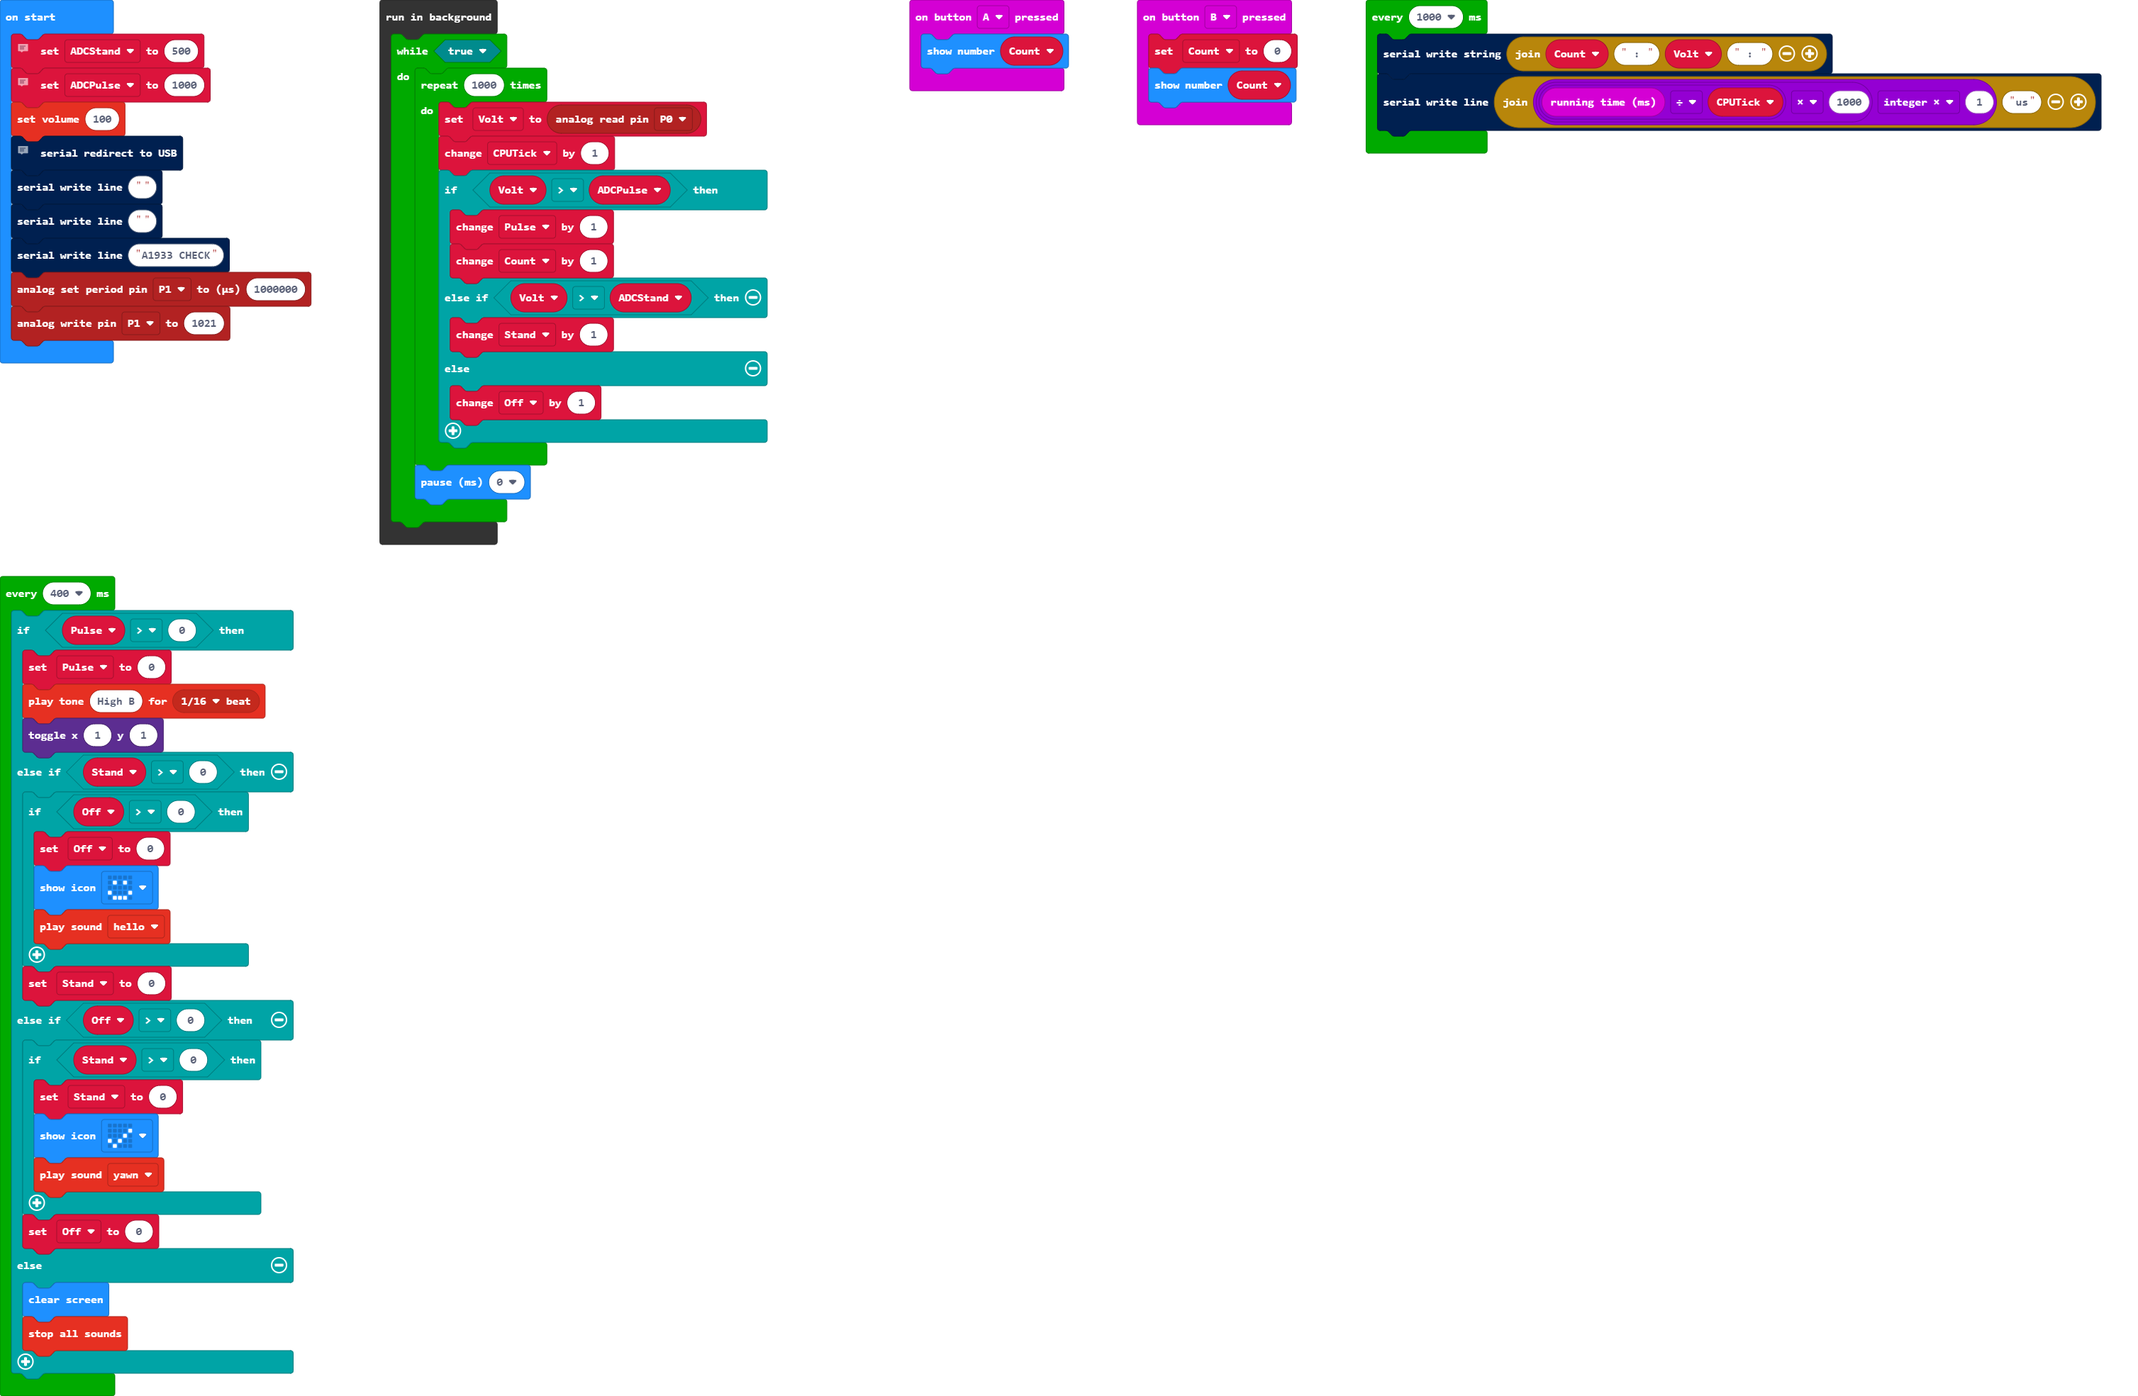
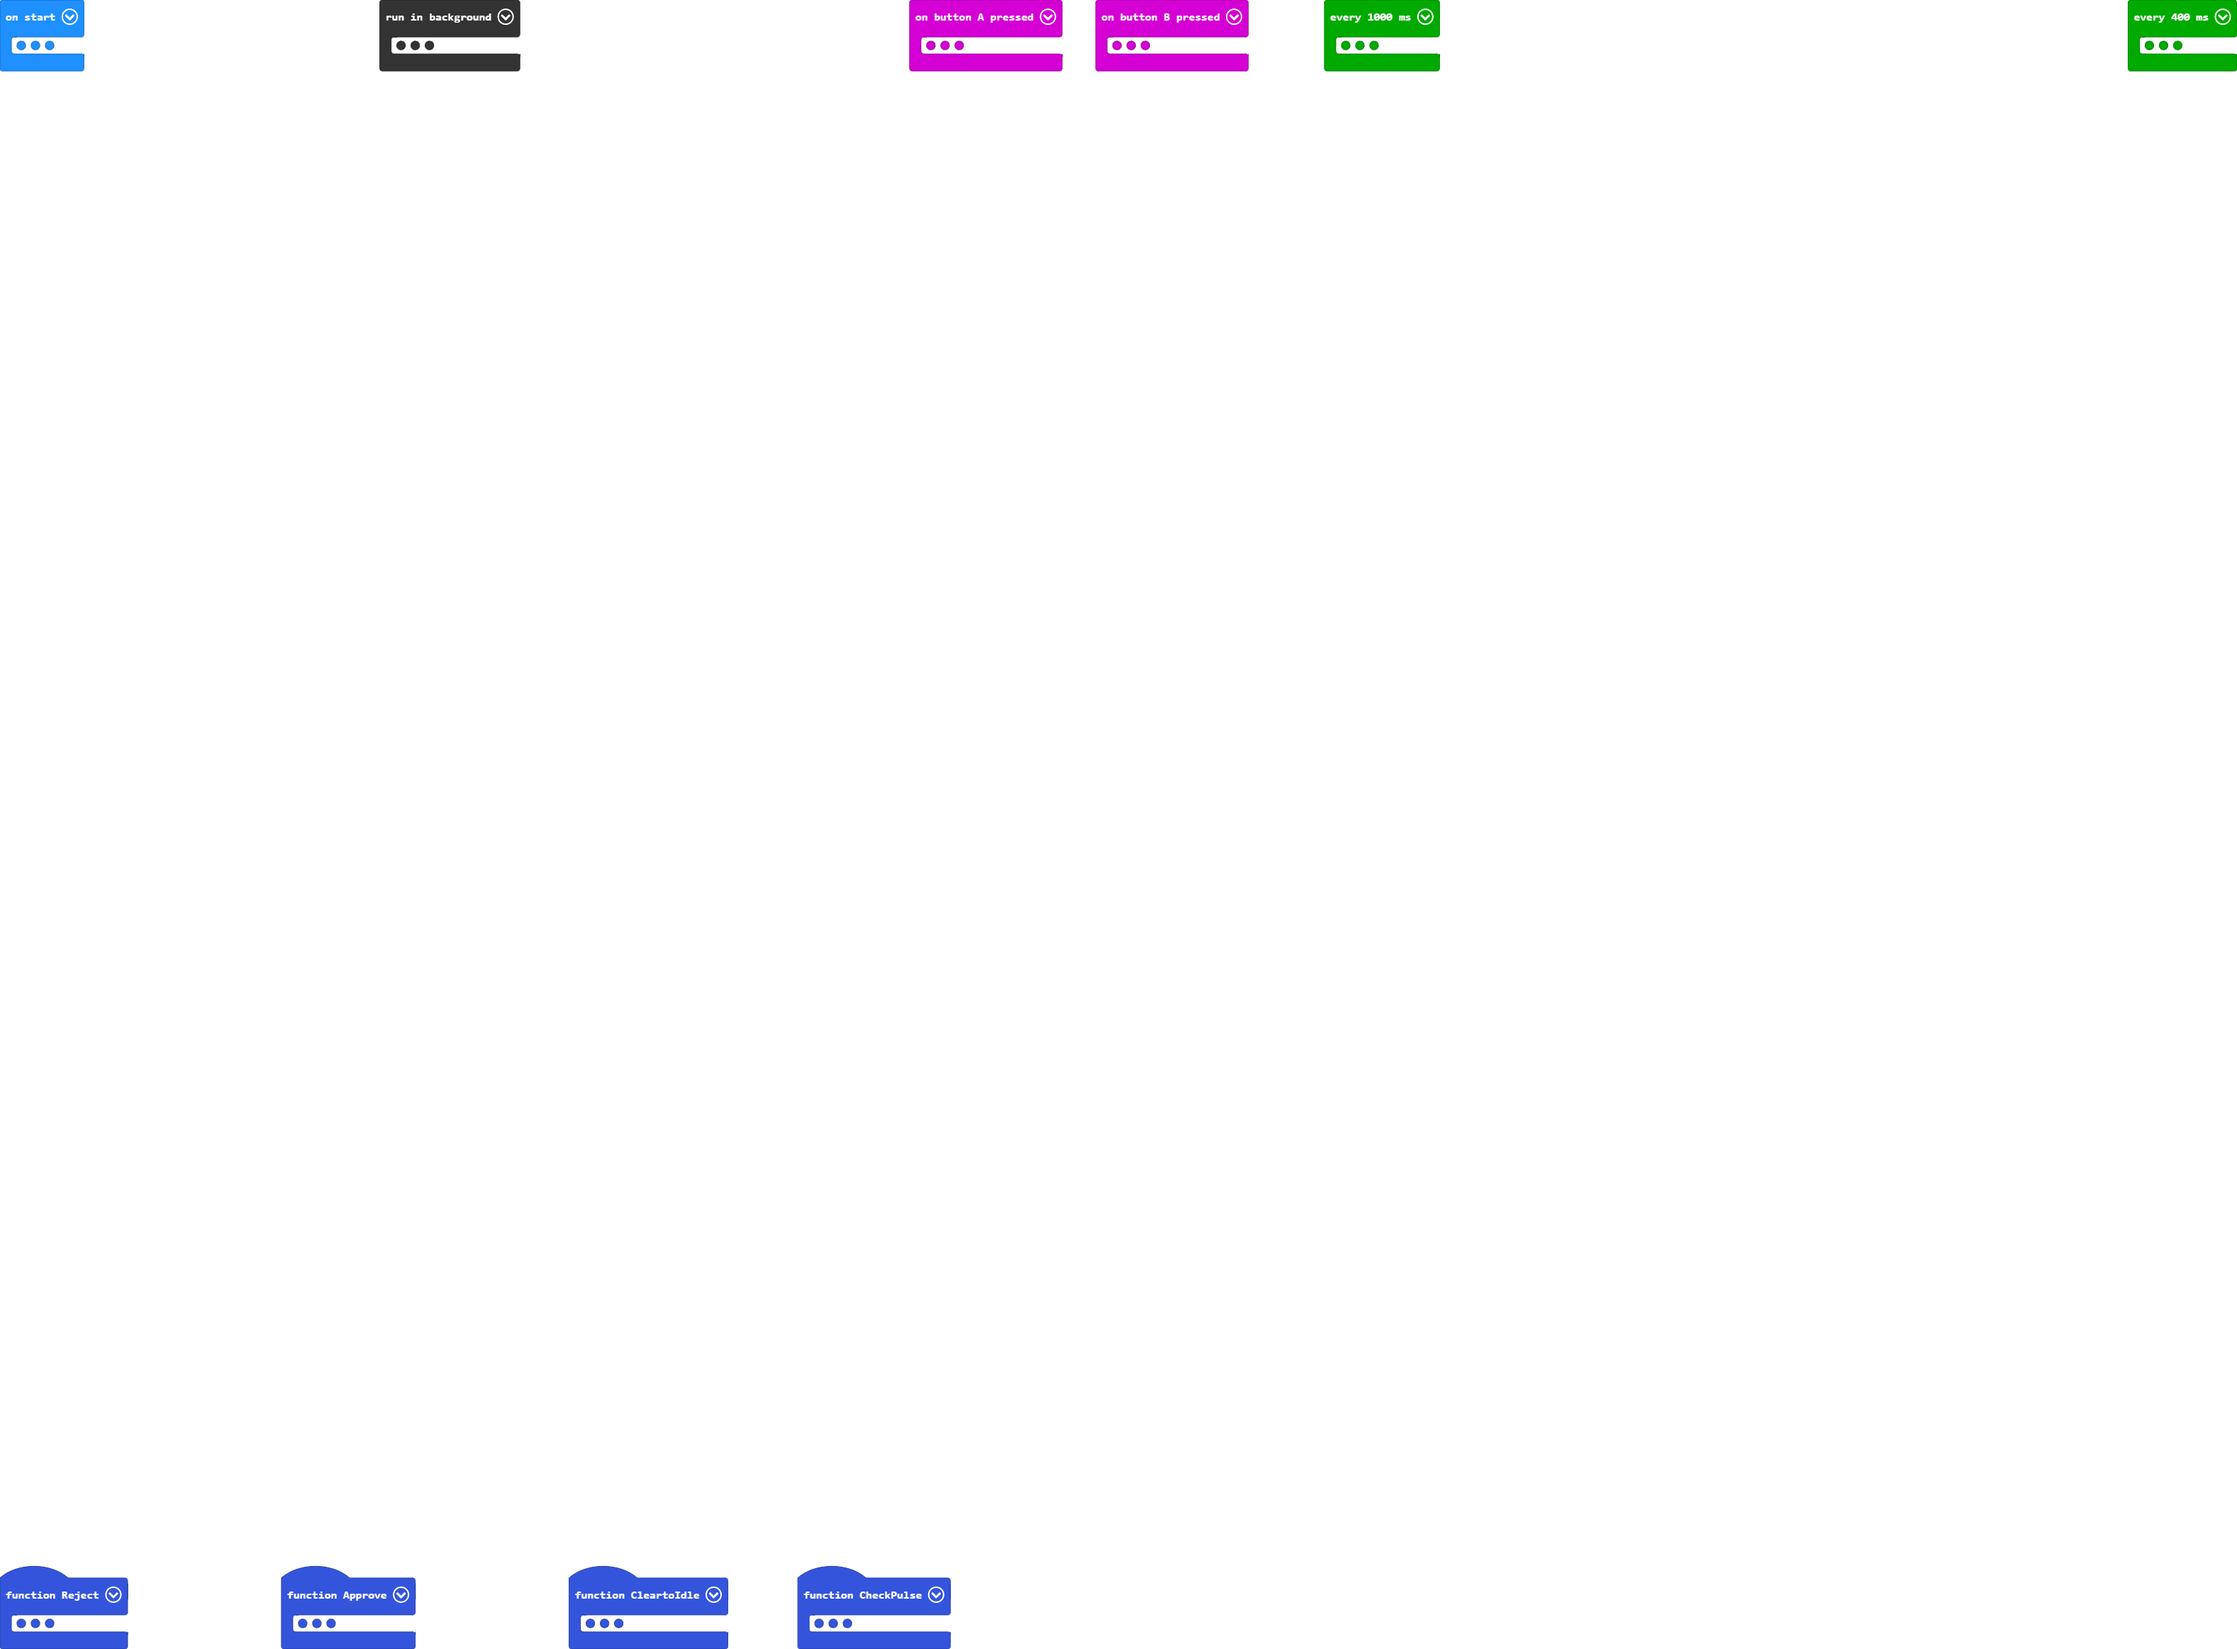
Update pxt.json, main.blocks, main.ts, main.py

diff --git a/main.ts b/main.ts
@@ -1,20 +1,50 @@
+function Reject () {
+    basic.showIcon(IconNames.No)
+    soundExpression.sad.play()
+    State = stRejected
+}
 input.onButtonPressed(Button.A, function () {
-    basic.showNumber(Count)
+    control.reset()
 })
-input.onButtonPressed(Button.B, function () {
+function CleartoIdle () {
+    basic.clearScreen()
+    music.stopAllSounds()
+    Off = 0
     Count = 0
-    basic.showNumber(Count)
-})
-let Off = 0
-let Stand = 0
-let Pulse = 0
+    Pulse = 0
+    Stand = 0
+    State = stIdle
+}
+function Approve () {
+    basic.showIcon(IconNames.Yes)
+    soundExpression.yawn.play()
+    State = stApproved
+}
+function CheckPulse () {
+    if (Pulse > 0) {
+        Pulse = 0
+        music.playTone(988, music.beat(BeatFraction.Sixteenth))
+        led.toggle(1, 1)
+    }
+}
+let StateTime = 0
 let CPUTick = 0
 let Volt = 0
+let Stand = 0
+let Pulse = 0
 let Count = 0
+let Off = 0
+let stIdle = 0
+let stPlugged = 1
+let stPulsing = 2
+let stApproved = 3
+let stRejected = 4
+let State = stIdle
 // 1023 / 3.3 * 0.6
 let ADCStand = 500
 // 1023 / 3.3 * 2
 let ADCPulse = 1000
+State = stIdle
 music.setVolume(100)
 // basic.showString("A1933 CHECK")
 serial.redirectToUSB()
@@ -24,7 +54,7 @@ serial.writeLine("A1933 CHECK")
 pins.analogSetPeriod(AnalogPin.P1, 1000000)
 pins.analogWritePin(AnalogPin.P1, 1021)
 loops.everyInterval(1000, function () {
-    serial.writeString("" + Count + " : " + Volt + " : ")
+    serial.writeString("" + Count + " : " + ("" + Volt) + " : ")
     serial.writeLine("" + Math.imul(input.runningTime() / CPUTick * 1000, 1) + "us")
 })
 control.inBackground(function () {
@@ -45,27 +75,48 @@ control.inBackground(function () {
     }
 })
 loops.everyInterval(400, function () {
-    if (Pulse > 0) {
-        Pulse = 0
-        music.playTone(988, music.beat(BeatFraction.Sixteenth))
-        led.toggle(1, 1)
-    } else if (Stand > Off) {
-        if (Off > 0) {
-            Off = 0
+    if (State = stIdle) {
+        if (Stand > 50) {
             basic.showIcon(IconNames.Happy)
             soundExpression.hello.play()
             Stand = 0
+            State = stPlugged
+            StateTime = input.runningTime()
         }
-    } else if (Off > Stand) {
-        if (Stand > 0) {
-            Stand = 0
-            basic.showIcon(IconNames.Yes)
-            soundExpression.yawn.play()
-        } else {
-            basic.clearScreen()
-            music.stopAllSounds()
+        Pulse = 0
+        Off = 0
+    } else if (State = stPlugged) {
+        if (Off > 1000) {
+            Reject()
             Off = 0
+        } else if (Pulse > 50) {
+            Pulse = 0
+            Count = 0
+            State = stPulsing
+            StateTime = input.runningTime()
+        } else {
+            if (input.runningTime() - StateTime > 5000) {
+                Reject()
+            }
+        }
+        Stand = 0
+    } else if (State = stPulsing) {
+        CheckPulse()
+        if (input.runningTime() - StateTime > 5000) {
+            if (Count < 1000) {
+                Reject()
+            } else {
+                Approve()
+            }
+        }
+    } else if (State = stApproved) {
+        CheckPulse()
+        if (Off > 50) {
+            CleartoIdle()
+        }
+    } else if (State = stRejected) {
+        if (Off > 50) {
+            CleartoIdle()
         }
     }
-
 })

diff --git a/main.py b/main.py
@@ -1,0 +1,78 @@
+def on_button_pressed_a():
+    basic.show_number(Count)
+input.on_button_pressed(Button.A, on_button_pressed_a)
+
+def on_button_pressed_b():
+    global Count
+    Count = 0
+    basic.show_number(Count)
+input.on_button_pressed(Button.B, on_button_pressed_b)
+
+Off = 0
+Stand = 0
+Pulse = 0
+CPUTick = 0
+Volt = 0
+Count = 0
+stIdle = 0
+# 1023 / 3.3 * 0.6
+ADCStand = 500
+# 1023 / 3.3 * 2
+ADCPulse = 1000
+stPlug = 1
+stPulse = 2
+stApprove = 3
+stReprove = 4
+State = stIdle
+music.set_volume(100)
+# basic.showString("A1933 CHECK")
+serial.redirect_to_usb()
+serial.write_line("")
+serial.write_line("")
+serial.write_line("A1933 CHECK")
+pins.analog_set_period(AnalogPin.P1, 1000000)
+pins.analog_write_pin(AnalogPin.P1, 1021)
+
+def on_every_interval():
+    serial.write_string("" + str(Count) + " : " + ("" + str(Volt)) + " : ")
+    serial.write_line("" + str(Math.imul(input.running_time() / CPUTick * 1000, 1)) + "us")
+loops.every_interval(1000, on_every_interval)
+
+def on_in_background():
+    global Volt, CPUTick, Pulse, Count, Stand, Off
+    while True:
+        for index in range(1000):
+            Volt = pins.analog_read_pin(AnalogPin.P0)
+            CPUTick += 1
+            if Volt > ADCPulse:
+                Pulse += 1
+                Count += 1
+            elif Volt > ADCStand:
+                Stand += 1
+            else:
+                Off += 1
+        basic.pause(0)
+control.in_background(on_in_background)
+
+def on_every_interval2():
+    global Pulse, Off, Stand
+    if Pulse > 0:
+        Pulse = 0
+        music.play_tone(988, music.beat(BeatFraction.SIXTEENTH))
+        led.toggle(1, 1)
+    elif Stand > Off:
+        if Off > 0:
+            Off = 0
+            basic.show_icon(IconNames.HAPPY)
+            soundExpression.hello.play()
+            Stand = 0
+    elif Off > Stand:
+        if Stand > 0:
+            Stand = 0
+            basic.show_icon(IconNames.YES)
+            soundExpression.yawn.play()
+        else:
+            basic.clear_screen()
+            music.stop_all_sounds()
+            Off = 0
+loops.every_interval(400, on_every_interval2)
